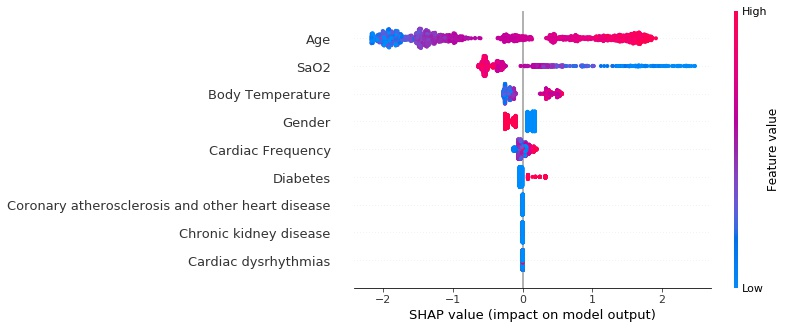
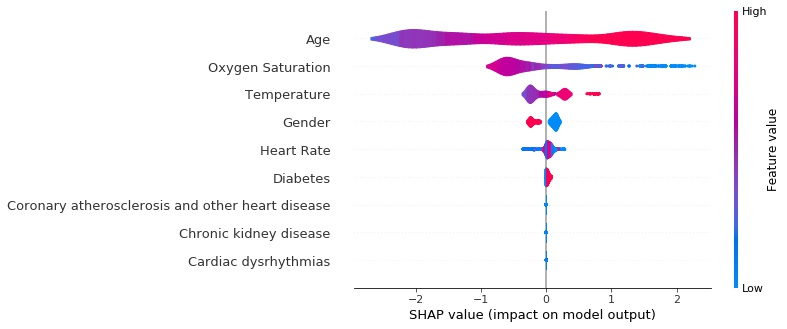
add revised images and add SHAP force plot description

diff --git a/risk_calculator/english.py b/risk_calculator/english.py
@@ -68,7 +68,11 @@ insert_feat = 'Insert the features below into the risk calculator.'
 results_card_mortality = "The mortality risk score is:"
 results_card_infection = ["The infection risk score is:", " out of 10"]
 
-visual_1 = "explanation"
+visual_1 = """The SHAP plot below summarizes the individual feature \
+            contridutions to the risk score. Features in blue decrease risk from the population baseline, \
+            whereas features in red increase risk. The contribution is proportional to the width of the feature's \
+            bar. Wider bars have higher importance in the final risk score. \
+            Note: gender is encoded as a binary value (0=Male, 1=Female)."""
 
 def get_model_desc_mortality(labs,labs_auc,no_labs_auc,labs_population,no_labs_population,labs_positive,no_labs_positive):
     if labs:
@@ -131,7 +135,7 @@ def get_model_desc_mortality(labs,labs_auc,no_labs_auc,labs_population,no_labs_p
              red to blue have decreasing risk as the feature increases, such as Oxygen Saturation. \
              Note: gender is encoded as a binary value (0=Male, 1=Female), so "lower" values of gender \
              correspond to male patients."""),
-        dcc.Markdown("""Overall, the importance of the features is as follows:"""),
+        dcc.Markdown("""Overall, the importance of the top features is as follows:"""),
     ]
 
 def get_model_desc_infection(labs,labs_auc,no_labs_auc,labs_population,no_labs_population,labs_positive,no_labs_positive):
@@ -194,7 +198,7 @@ def get_model_desc_infection(labs,labs_auc,no_labs_auc,labs_population,no_labs_p
              red to blue have decreasing risk as the feature increases, such as Oxygen Saturation. \
              Note: gender is encoded as a binary value (0=Male, 1=Female), so "lower" values of gender \
              correspond to male patients."""),
-        dcc.Markdown("""Overall, the importance of the features is as follows:"""),
+        dcc.Markdown("""Overall, the importance of the top features is as follows:"""),
     ]
 
 feature_names = {
@@ -215,7 +219,7 @@ feature_names = {
     'Cardiac Frequency': 'Heart Rate',
     'Cardiac dysrhythmias': 'Cardiac dysrhythmias',
     'Gender' : 'Gender',
-    'Glycemia': 'Glycemia',
+    'Glycemia': 'Blood Glucose',
     'Potassium Blood Level': 'Potassium',
     'Prothrombin Time (INR)': 'Prothrombin Time',
     'Systolic Blood Pressure': 'Systolic Blood Pressure (SYS)',
